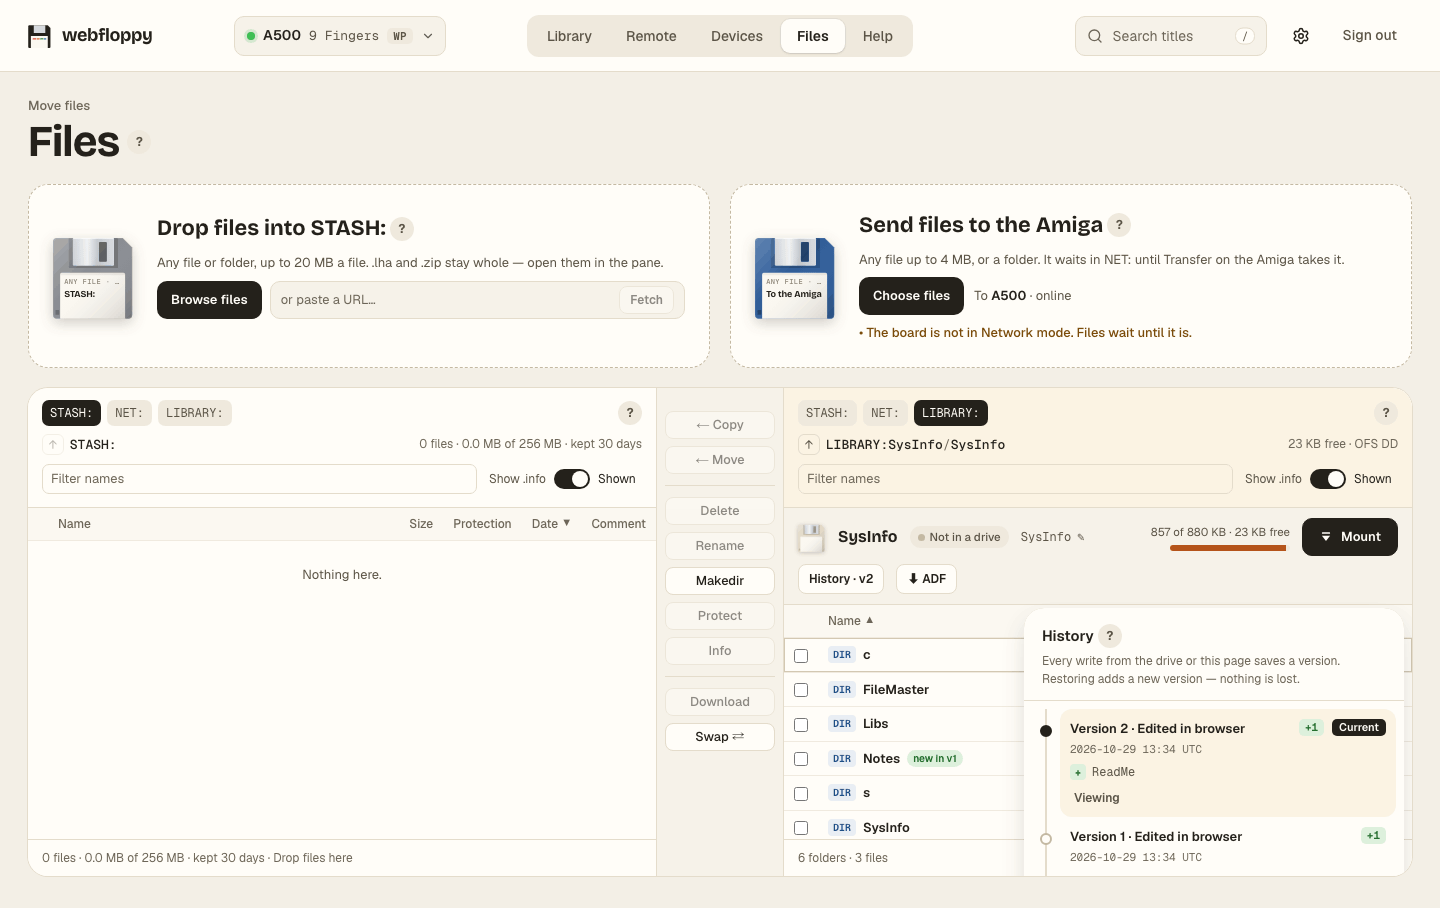
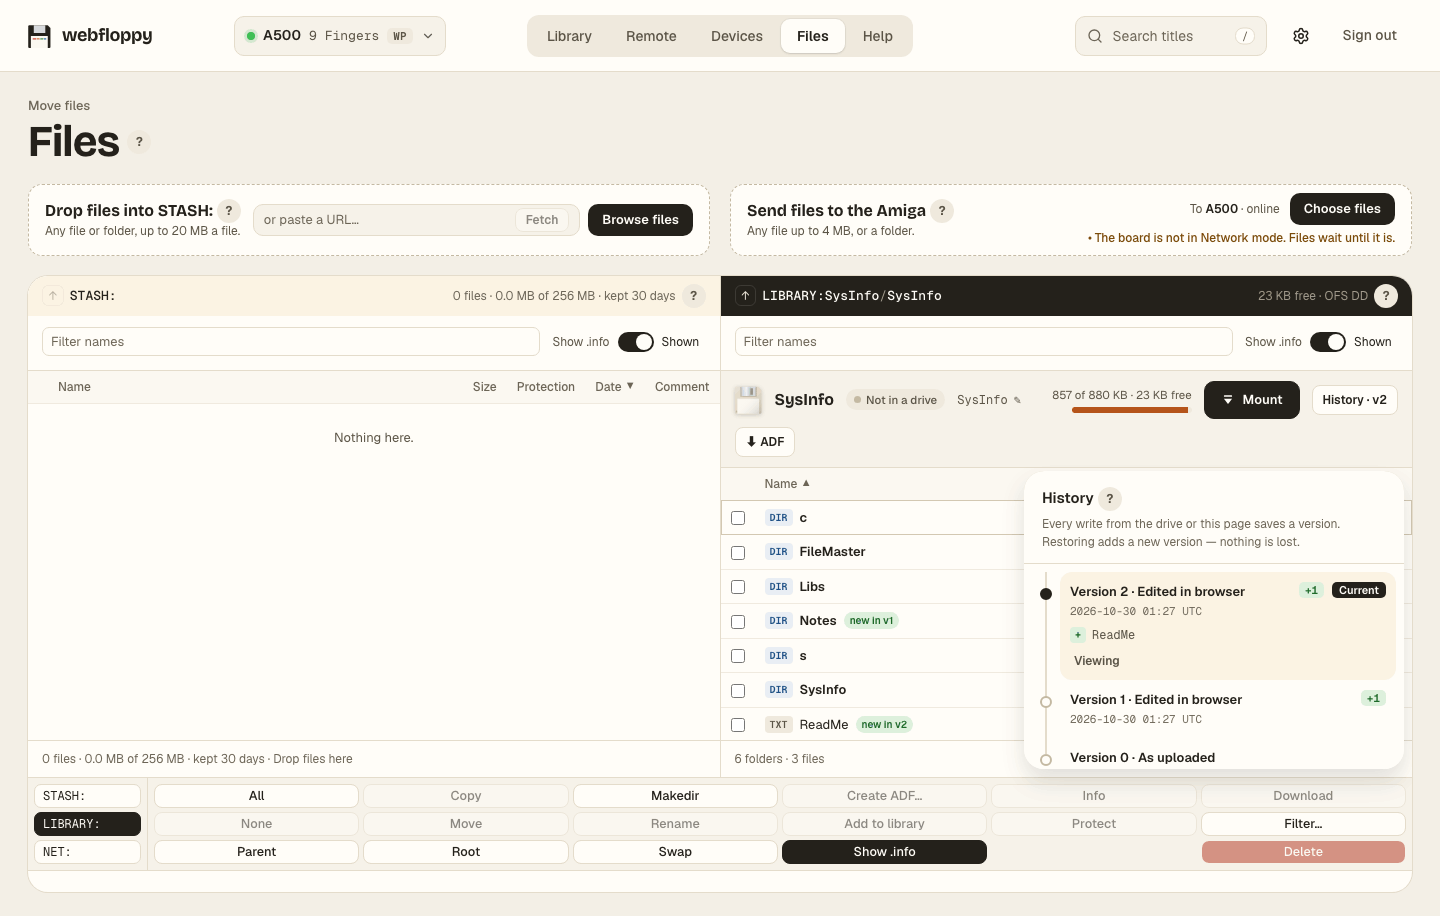
README: screenshots for Files 2 (Opus layout, Added tray); Files caption

diff --git a/README.md b/README.md
@@ -110,10 +110,10 @@ protection, step to the next disk or eject.*
 
 *A title page: facts and screenshots from Demozoo, then each disk with its actions.*
 
-![The Files page: STASH: in the left pane, the SysInfo disk in the right pane with its files, the button column between them, and the disk's History open](docs/screenshots/disk-files.png)
+![The Files page: STASH: in the left pane, the SysInfo disk in the right pane as the source with its dark title bar and its History open, and under both panes the device column (STASH:, LIBRARY:, NET:) and the grid of buttons](docs/screenshots/disk-files.png)
 
-*Files: two panes, as in a Workbench file manager, over STASH:, NET: and LIBRARY:. Each edit to a disk is a new
-version in its History.*
+*Files: two panes in the Directory Opus style over STASH:, NET: and LIBRARY: (collections are folders there). The pane
+you last clicked is the source; the buttons under the panes act on it. Each edit to a disk is a new version in its History.*
 
 ![The Devices page: the A500 board online and up to date, its drive drawing with the OLED showing 9 Fingers, the disk in the drive, and the Second drive (DF1) choices](docs/screenshots/devices.png)
 
